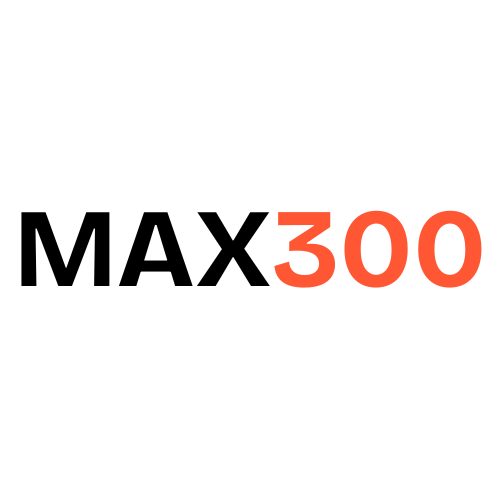
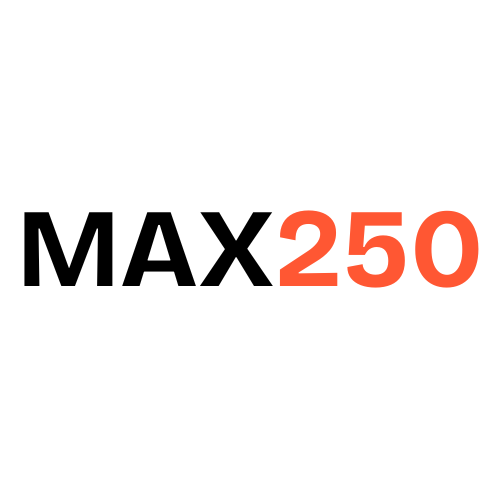
Home main section (promo tab)

Changed region(s): [[0.03, 0.42, 0.99, 0.6]]

diff --git a/src/landing-pg/LandingPg.js b/src/landing-pg/LandingPg.js
@@ -7448,10 +7448,10 @@ export default class LandingPg extends Component {
             promoItems: [
                 { id: 1, name: 'TuShop Fresh Mixed Sizes Eggs', oldPrice: 205.00, newPrice: 250.00, type: 'product', description: '', img: '/assets/images/products/eggs-product.png'},
                 { id: 2, name: 'TuShop Fresh Mwea Pishori Rice', oldPrice: 205.00, newPrice: 190.00, type: 'product', description: '' , img: '/assets/images/products/rice-product.png'},
-                { id: 3, name: 'Get Ksh. 300 off orders over Ksh. 1999.', oldPrice: 205.00, newPrice: 190.00, type: 'code', description: '', promoParams: '', img: '/assets/images/codes/promoCode1.png'},
+                { id: 3, name: 'Get Ksh. 250 off your first order.', oldPrice: 205.00, newPrice: 190.00, type: 'code', description: '', promoParams: 'Valid 02/05', img: '/assets/images/codes/promoCode2.png'},
                 { id: 4, name: 'Bio Salted Artisanal Butter (500g)', oldPrice: 879.00, newPrice: 850.00, type: 'product', description: '', img: '/assets/images/products/butter-product.png'},
                 { id: 5, name: 'Tushop Fresh Local Watermelon', oldPrice: 369.00, newPrice: 320.00, type: 'product', description: '', img: '/assets/images/products/watermelon-product.webp'},
-                { id: 6, name: 'Get Ksh. 100 off first', oldPrice: 205.00, newPrice: 190.00, type: 'code', description: '', promoParams: '', img: '/assets/images/codes/promoCode2.png'},
+                { id: 6, name: 'Get Ksh. 300 off orders over Ksh. 1999.', oldPrice: 205.00, newPrice: 190.00, type: 'code', description: '', promoParams: '', img: '/assets/images/codes/promoCode1.png'},
               ],
             
             //* # SHOPPING LIST *//
